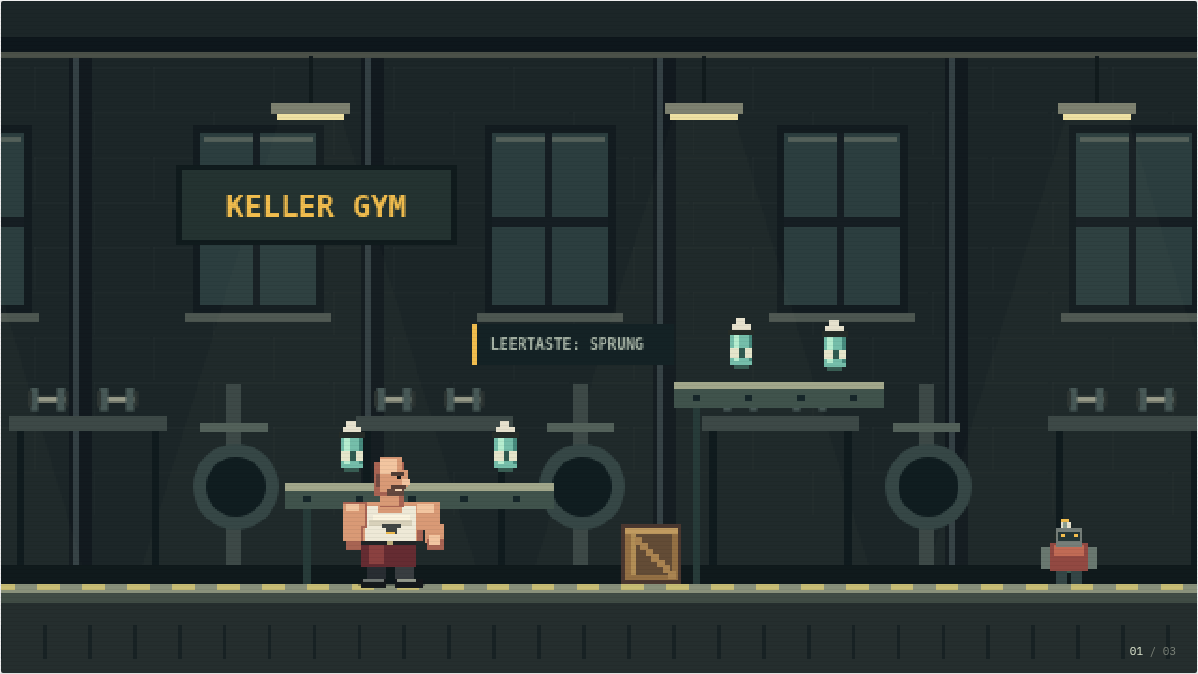
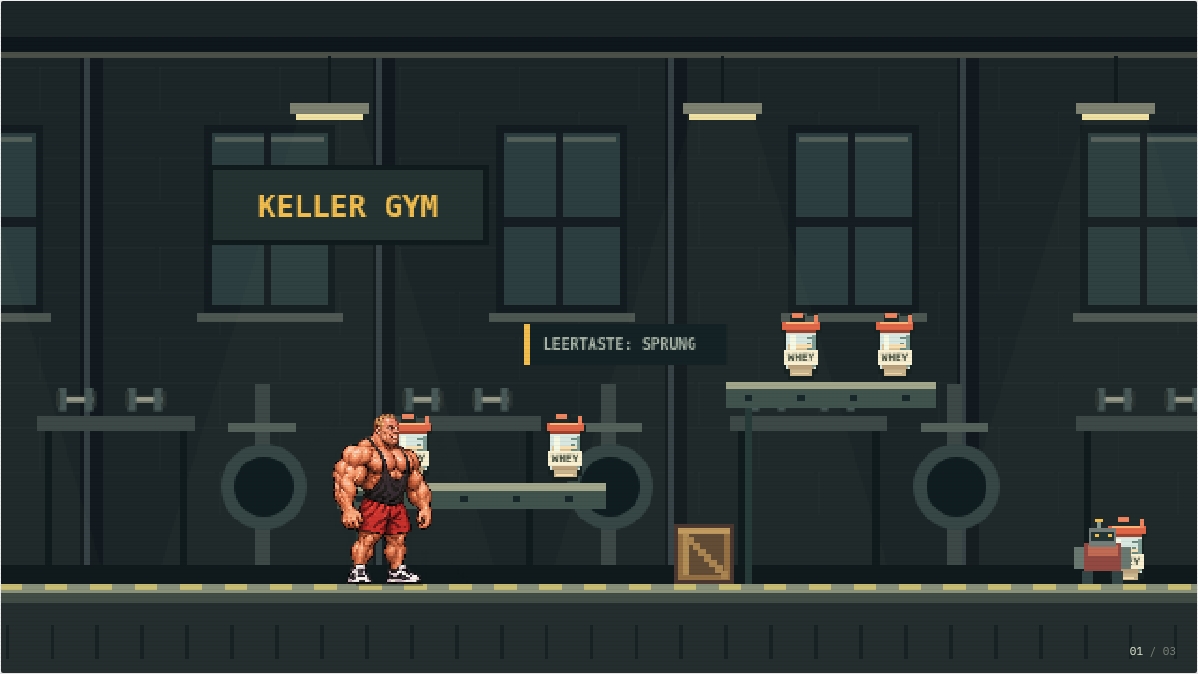
Refresh Rühl game listing for new sprites and bench-press cinematics

diff --git a/apps/inbox/ruehl-zur-buehne/README.md b/apps/inbox/ruehl-zur-buehne/README.md
@@ -10,6 +10,12 @@ Messehalle und Backstage bis zur Wettkampfbühne. Proteinshakes liefern Pump,
 Kraftaktionen zerlegen Kisten und schieben Cardio-Bots aus dem Weg. Für die
 Siegerpose auf der letzten Bühne brauchst du 100 Pump.
 
+Version 1.1 bringt neue, anhand von Fotoreferenzen erstellte Rühl-Sprites mit kurzem
+hellem Haar, schwarzem Stringer und roten Shorts. Die Sammelobjekte sind deutlich
+erkennbare WHEY-Shaker mit Klappdeckel und cremiger Füllung. Nach jedem Level folgt
+eine animierte Bankdrück-Sequenz: drei Wiederholungen mit 100, 140 oder 180 kg im
+Spiel. Die Hände folgen der beweglichen Hantel; Pause und Überspringen sind möglich.
+
 ## Steuerung
 
 - **Laufen:** A/D oder Pfeiltasten; auf dem Handy LINKS/RECHTS halten.
